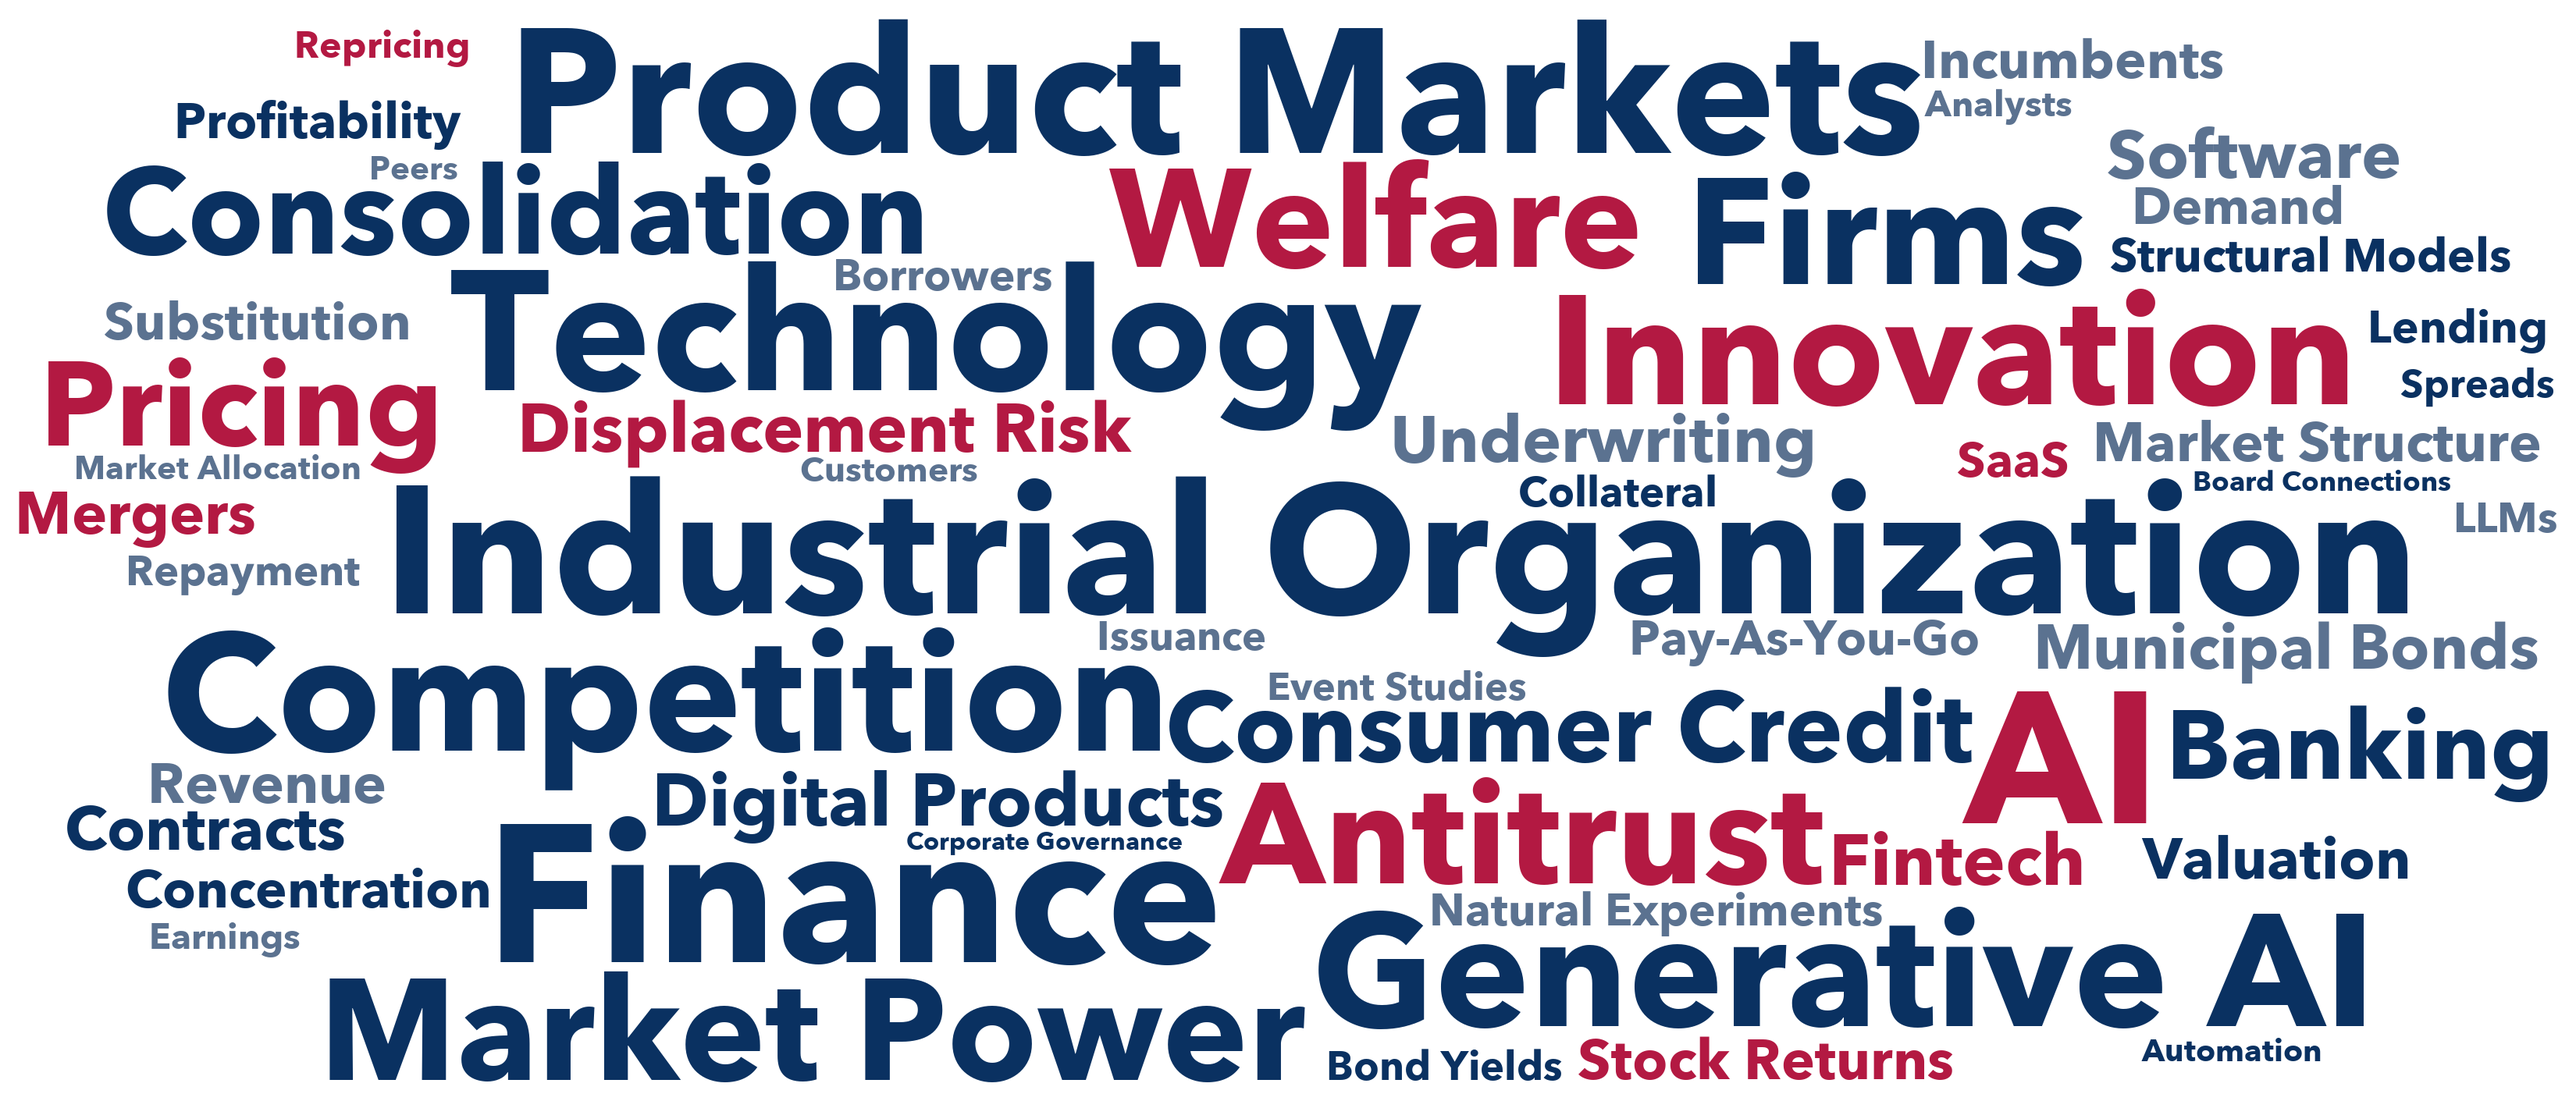
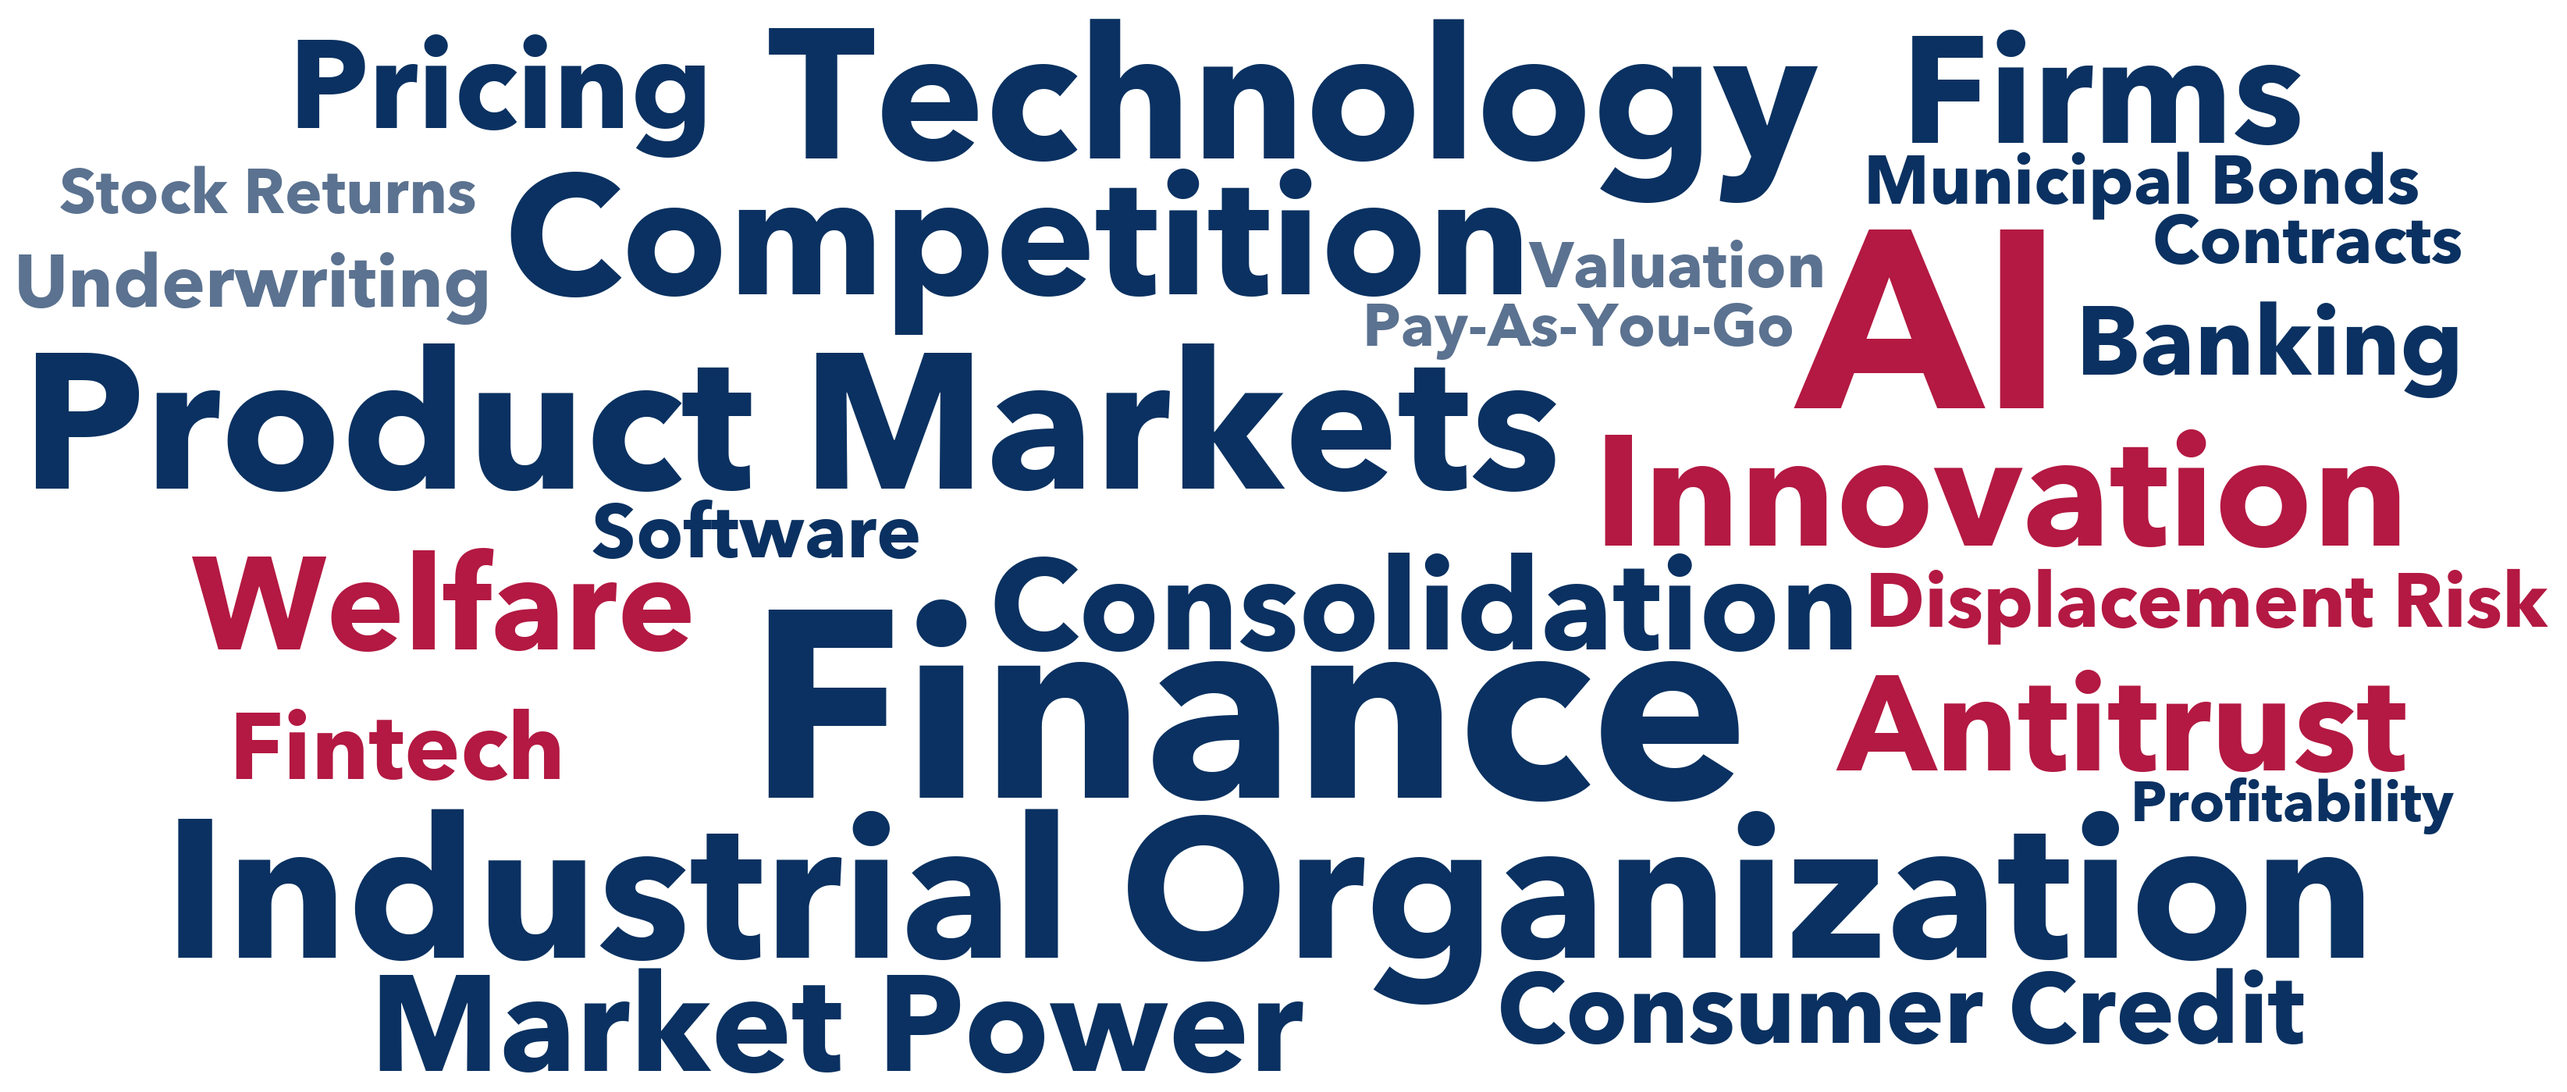
Word cloud capped at 25 deduplicated terms

diff --git a/_pages/about.md b/_pages/about.md
@@ -250,7 +250,7 @@ Finance and AI, Finance and Industrial Organization
 
 ## Research Themes
 
-<img src="/images/research_wordcloud.png" alt="A word cloud of research themes drawn from my papers" style="display:block; width:100%; max-width:780px; margin:0.8em auto 0;">
+<img src="/images/research_wordcloud.png?v=2" alt="A word cloud of research themes drawn from my papers" style="display:block; width:100%; max-width:780px; margin:0.8em auto 0;">
 
 <!-- Citation Modals -->
 <div class="cite-overlay" id="cite1" onclick="closeCite(event, 'cite1')">
